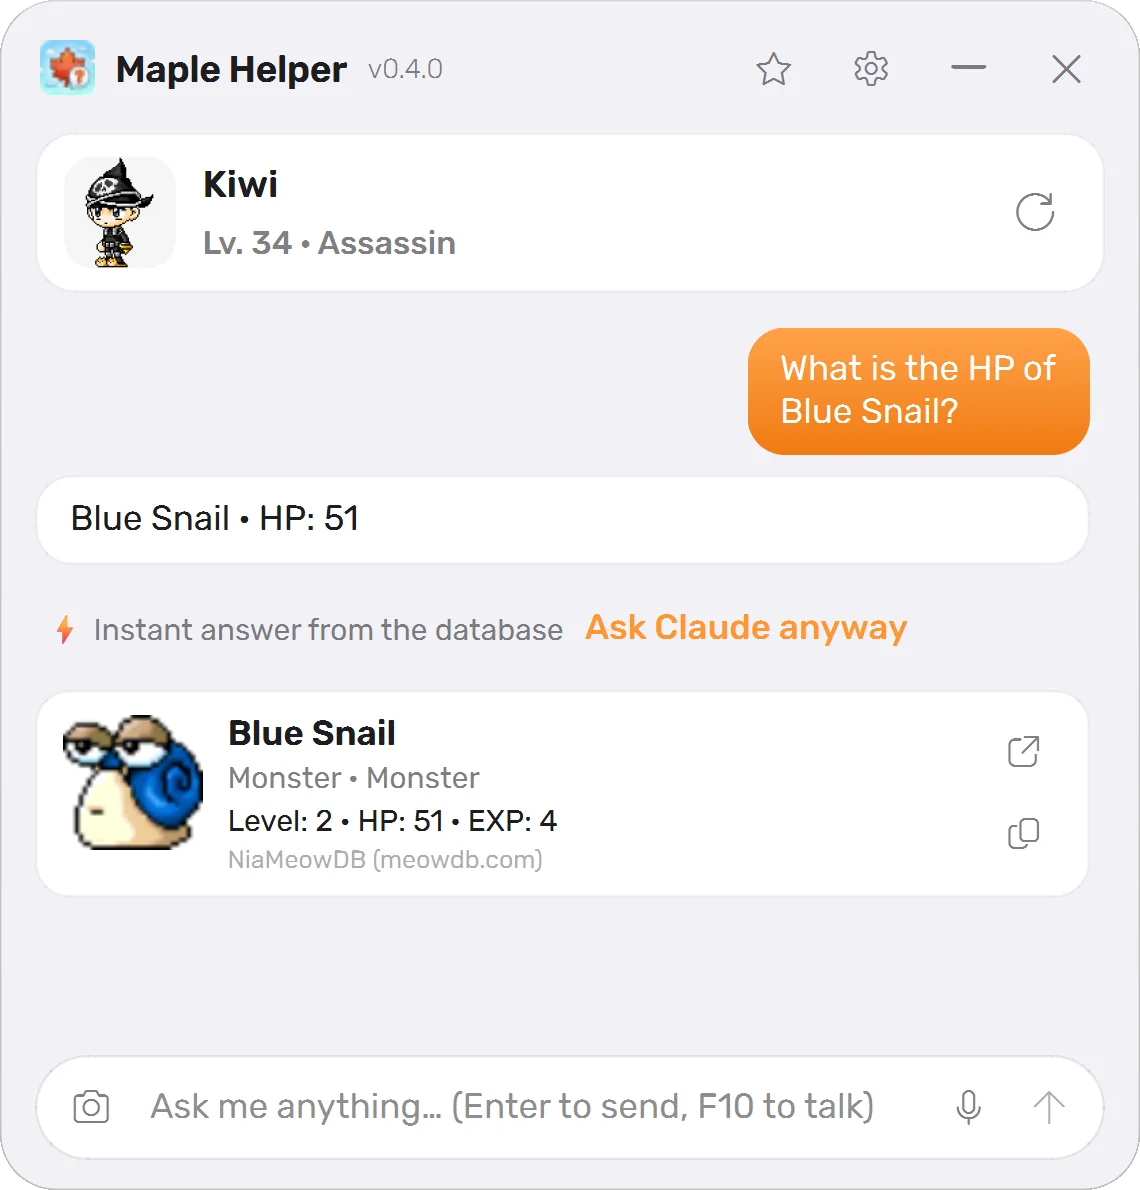
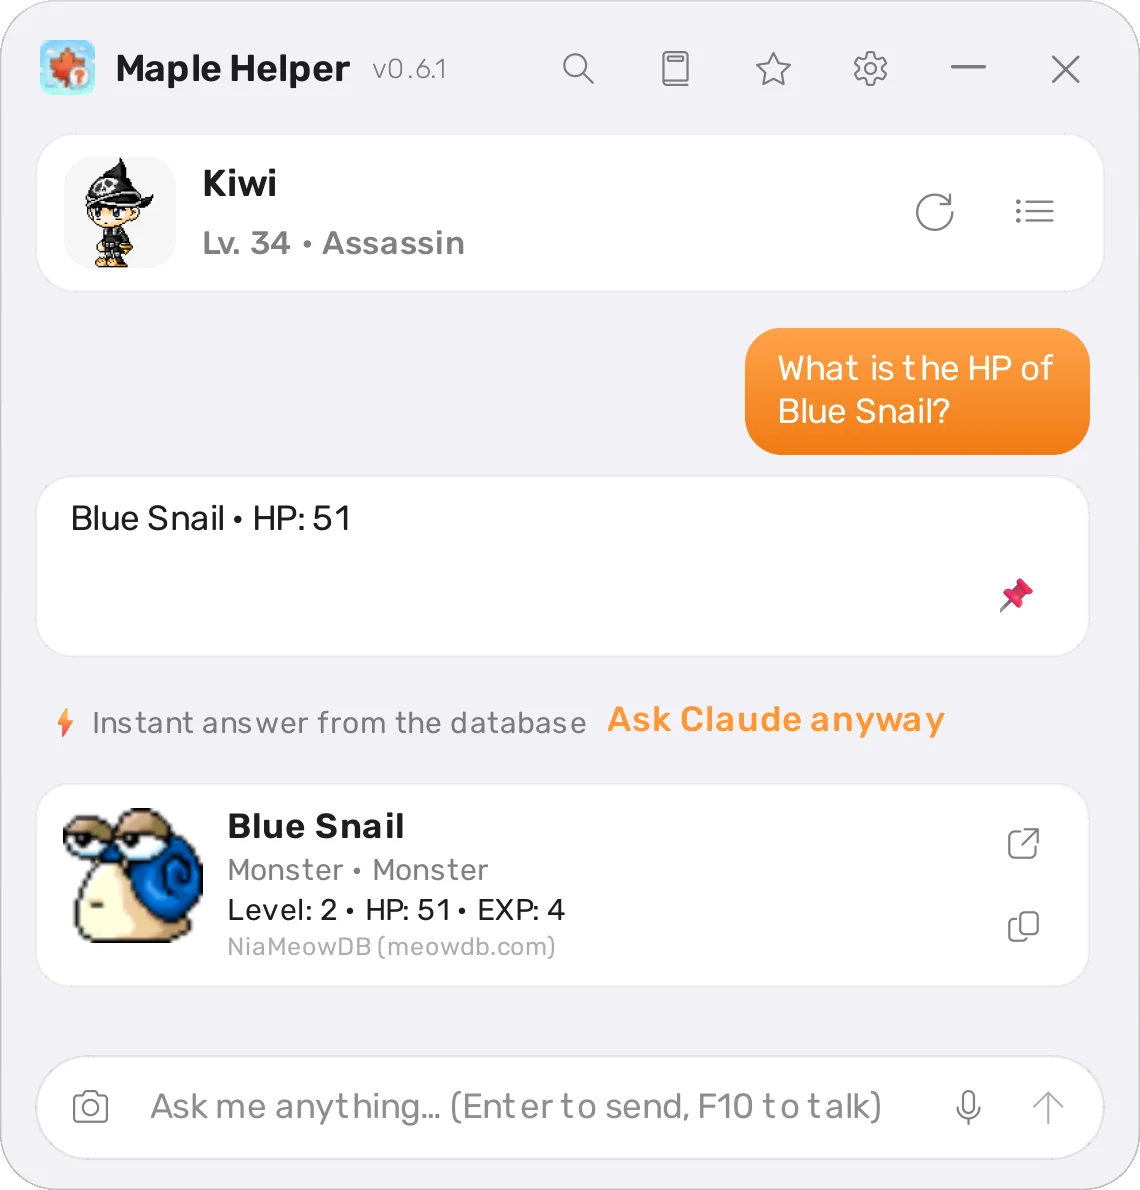
Site and README: fresh 0.6.1 screenshots, a guides section, screenshots in the README

diff --git a/site/index.html b/site/index.html
@@ -171,6 +171,7 @@
     <symbol id="i-image" viewBox="0 0 24 24"><g fill="none" stroke="currentColor" stroke-width="2" stroke-linecap="round" stroke-linejoin="round"><rect x="3" y="3" width="18" height="18" rx="3"/><circle cx="9" cy="9" r="2"/><path d="m21 15-4.6-4.6a1.5 1.5 0 0 0-2.1 0L5 20"/></g></symbol>
     <symbol id="i-star" viewBox="0 0 24 24"><path fill="none" stroke="currentColor" stroke-width="2" stroke-linejoin="round" d="m12 2.8 2.8 5.8 6.3.9-4.6 4.4 1.1 6.3L12 17.2l-5.6 3 1.1-6.3-4.6-4.4 6.3-.9z"/></symbol>
     <symbol id="i-notes" viewBox="0 0 24 24"><g fill="none" stroke="currentColor" stroke-width="2" stroke-linecap="round" stroke-linejoin="round"><path d="M14 2H6a2 2 0 0 0-2 2v16a2 2 0 0 0 2 2h12a2 2 0 0 0 2-2V8z"/><path d="M14 2v6h6M8 13h8M8 17h5"/></g></symbol>
+    <symbol id="i-book" viewBox="0 0 24 24"><g fill="none" stroke="currentColor" stroke-width="2" stroke-linecap="round" stroke-linejoin="round"><path d="M4 19.5A2.5 2.5 0 0 1 6.5 17H20V3H6.5A2.5 2.5 0 0 0 4 5.5z"/><path d="M4 19.5A2.5 2.5 0 0 0 6.5 22H20v-5"/></g></symbol>
     <symbol id="i-user" viewBox="0 0 24 24"><g fill="none" stroke="currentColor" stroke-width="2" stroke-linecap="round"><circle cx="12" cy="8" r="4"/><path d="M4 21v-1a6 6 0 0 1 6-6h4a6 6 0 0 1 6 6v1"/></g></symbol>
     <symbol id="i-mic" viewBox="0 0 24 24"><g fill="none" stroke="currentColor" stroke-width="2" stroke-linecap="round"><rect x="9" y="2" width="6" height="12" rx="3"/><path d="M19 10v2a7 7 0 0 1-14 0v-2M12 19v3"/></g></symbol>
     <symbol id="i-lang" viewBox="0 0 24 24"><g fill="none" stroke="currentColor" stroke-width="2" stroke-linecap="round" stroke-linejoin="round"><path d="m5 8 6 6M4 14l6-6 2-3M2 5h12M7 2h1M22 22l-5-10-5 10M14 18h6"/></g></symbol>
@@ -342,6 +343,21 @@
               <source media="(prefers-color-scheme: dark)" srcset="assets/shots/settings-dark.webp">
               <img src="assets/shots/settings-light.webp" width="1190" height="1740" loading="lazy" decoding="async"
                    alt="מסך ההגדרות בעברית: מראה בהיר או כהה, גודל גופן, שפה, מקש פתיחה F9 ומקש דיבור F10">
+            </picture>
+          </div>
+        </article>
+
+        <article class="tile wide split glass reveal">
+          <div>
+            <h3><span class="ico"><svg aria-hidden="true"><use href="#i-book"/></svg></span>32 מדריכים, בעברית ועם תמונות</h3>
+            <p>מדריכים לכל מקצוע, מפות גרינד, טבלת <bdi dir="ltr">EXP</bdi>, נוסחת הנזק ועוד. כולם מתורגמים לעברית, עם אייקונים של סקילים ופריטים, דמויות, טבלאות וטיפים.</p>
+            <p>המדריכים שמתאימים לדמות שלכם מופיעים ראשונים, וכפתור אחד שולח שאלה על המדריך לצ'אט.</p>
+          </div>
+          <div class="shot crop">
+            <picture>
+              <source media="(prefers-color-scheme: dark)" srcset="assets/shots/guide-dark.webp">
+              <img src="assets/shots/guide-light.webp" width="1190" height="1840" loading="lazy" decoding="async"
+                   alt="מדריך ה-Warrior בעברית בתוך האפליקציה: תמונת הדמות, יתרונות וחסרונות, וקופסת נוסחה">
             </picture>
           </div>
         </article>

diff --git a/site/en/index.html b/site/en/index.html
@@ -171,6 +171,7 @@
     <symbol id="i-image" viewBox="0 0 24 24"><g fill="none" stroke="currentColor" stroke-width="2" stroke-linecap="round" stroke-linejoin="round"><rect x="3" y="3" width="18" height="18" rx="3"/><circle cx="9" cy="9" r="2"/><path d="m21 15-4.6-4.6a1.5 1.5 0 0 0-2.1 0L5 20"/></g></symbol>
     <symbol id="i-star" viewBox="0 0 24 24"><path fill="none" stroke="currentColor" stroke-width="2" stroke-linejoin="round" d="m12 2.8 2.8 5.8 6.3.9-4.6 4.4 1.1 6.3L12 17.2l-5.6 3 1.1-6.3-4.6-4.4 6.3-.9z"/></symbol>
     <symbol id="i-notes" viewBox="0 0 24 24"><g fill="none" stroke="currentColor" stroke-width="2" stroke-linecap="round" stroke-linejoin="round"><path d="M14 2H6a2 2 0 0 0-2 2v16a2 2 0 0 0 2 2h12a2 2 0 0 0 2-2V8z"/><path d="M14 2v6h6M8 13h8M8 17h5"/></g></symbol>
+    <symbol id="i-book" viewBox="0 0 24 24"><g fill="none" stroke="currentColor" stroke-width="2" stroke-linecap="round" stroke-linejoin="round"><path d="M4 19.5A2.5 2.5 0 0 1 6.5 17H20V3H6.5A2.5 2.5 0 0 0 4 5.5z"/><path d="M4 19.5A2.5 2.5 0 0 0 6.5 22H20v-5"/></g></symbol>
     <symbol id="i-user" viewBox="0 0 24 24"><g fill="none" stroke="currentColor" stroke-width="2" stroke-linecap="round"><circle cx="12" cy="8" r="4"/><path d="M4 21v-1a6 6 0 0 1 6-6h4a6 6 0 0 1 6 6v1"/></g></symbol>
     <symbol id="i-mic" viewBox="0 0 24 24"><g fill="none" stroke="currentColor" stroke-width="2" stroke-linecap="round"><rect x="9" y="2" width="6" height="12" rx="3"/><path d="M19 10v2a7 7 0 0 1-14 0v-2M12 19v3"/></g></symbol>
     <symbol id="i-lang" viewBox="0 0 24 24"><g fill="none" stroke="currentColor" stroke-width="2" stroke-linecap="round" stroke-linejoin="round"><path d="m5 8 6 6M4 14l6-6 2-3M2 5h12M7 2h1M22 22l-5-10-5 10M14 18h6"/></g></symbol>
@@ -342,6 +343,21 @@
               <source media="(prefers-color-scheme: dark)" srcset="../assets/shots/en/settings-dark.webp">
               <img src="../assets/shots/en/settings-light.webp" width="1190" height="1740" loading="lazy" decoding="async"
                    alt="The settings window: light or dark appearance, font size, English or Hebrew, the F9 open/close key and the F10 talk key">
+            </picture>
+          </div>
+        </article>
+
+        <article class="tile wide split glass reveal">
+          <div>
+            <h3><span class="ico"><svg aria-hidden="true"><use href="#i-book"/></svg></span>32 guides, with pictures</h3>
+            <p>Guides for every class, grind maps, the EXP table, the damage formula and more, with skill and item icons, character art, tables and tips. In Hebrew too.</p>
+            <p>The guides that fit your character come first, and one button sends a question about the guide to the chat.</p>
+          </div>
+          <div class="shot crop">
+            <picture>
+              <source media="(prefers-color-scheme: dark)" srcset="../assets/shots/en/guide-dark.webp">
+              <img src="../assets/shots/en/guide-light.webp" width="1190" height="1840" loading="lazy" decoding="async"
+                   alt="The Warrior guide inside the app: the class art, pros and cons, and a formula box">
             </picture>
           </div>
         </article>

diff --git a/README.md b/README.md
@@ -23,6 +23,19 @@ Maple Helper is a desktop assistant for Windows and macOS that puts a chat overl
 
 Use it to look up drops, find quest NPCs, or ask where to train without switching away from the game.
 
+<p align="center">
+  <img src="site/assets/shots/en/mano-light.webp" width="260" alt="The chat: what Mano drops, with a monster card and pictures of its drops">
+  <img src="site/assets/shots/en/guide-light.webp" width="260" alt="The Warrior guide in the app, with class art, pros and cons, and a formula box">
+  <img src="site/assets/shots/en/wishlist-light.webp" width="260" alt="Items I'm looking for, with the monsters that drop each one">
+</p>
+<p align="center">
+  <img src="site/assets/shots/hp-dark.webp" width="260" alt="Hebrew interface in dark mode: an instant answer for Blue Snail's HP">
+  <img src="site/assets/shots/guide-dark.webp" width="260" alt="The Warrior guide in Hebrew, dark mode">
+  <img src="site/assets/shots/en/settings-light.webp" width="260" alt="Settings: appearance, keys, answers, AI account and plan usage">
+</p>
+
+Website: **https://amitaflalo1995.github.io/maple-helper/**
+
 ## Download
 
 **[Download Maple Helper for Windows](https://github.com/Amitaflalo1995/maple-helper/releases/latest/download/MapleHelper-Setup.exe)**, run the installer, and follow the setup screens. The app updates itself and its game database in the background. A portable zip is on the [Releases page](https://github.com/Amitaflalo1995/maple-helper/releases/latest).
@@ -38,6 +51,9 @@ Use it to look up drops, find quest NPCs, or ask where to train without switchin
 - **Visual reference cards:** See images of relevant monsters, items, maps, NPCs, and quests alongside answers, grouped under titles (for example, what a monster drops).
 - **Tag cards:** Tap one or more cards to ask follow-up questions about them, such as "where is it?" or "which one is easier for me?".
 - **Who drops it:** Ask which monsters drop an item and get the answer grouped by monster, with pictures.
+- **Guides library:** 32 full guides (every class, grind maps, the EXP table, the damage formula and more) with skill and item icons, character art, tables and tips, in English and Hebrew. The ones that fit your character come first.
+- **Plan usage:** See how much of your Claude or ChatGPT plan is used, with a heads-up in the chat before the 5-hour limit runs out, and a saver mode.
+- **Items I'm looking for:** Star an item to keep a list of what you hunt, with who drops it and where.
 - **Hebrew and English:** Use either language, including mixed text with English game names.
 - **Local speech recognition:** Transcribe voice input on your computer using ivrit.ai Whisper models.
 
